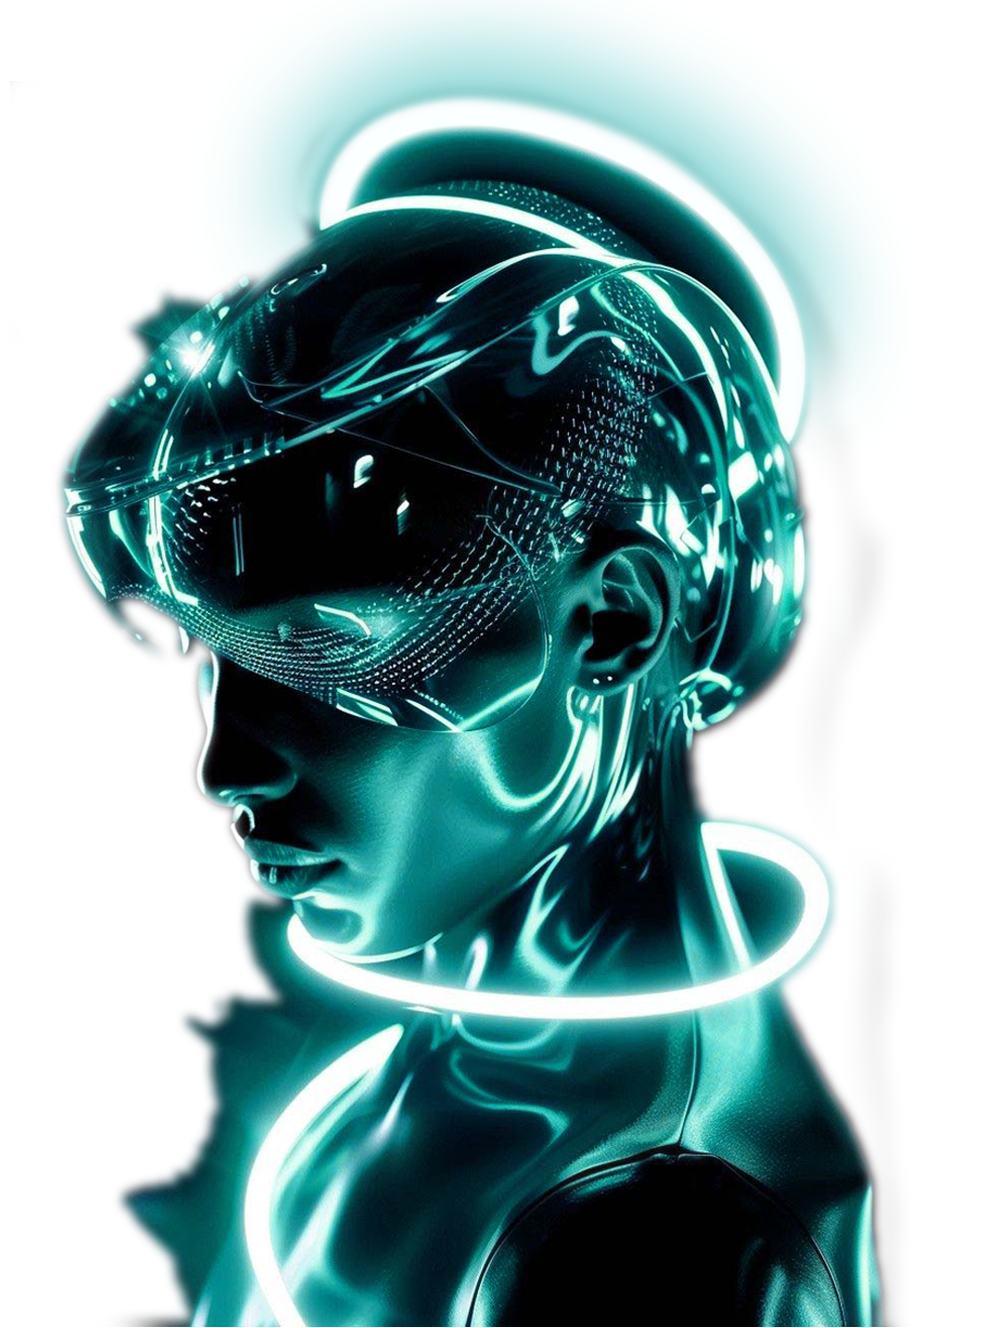
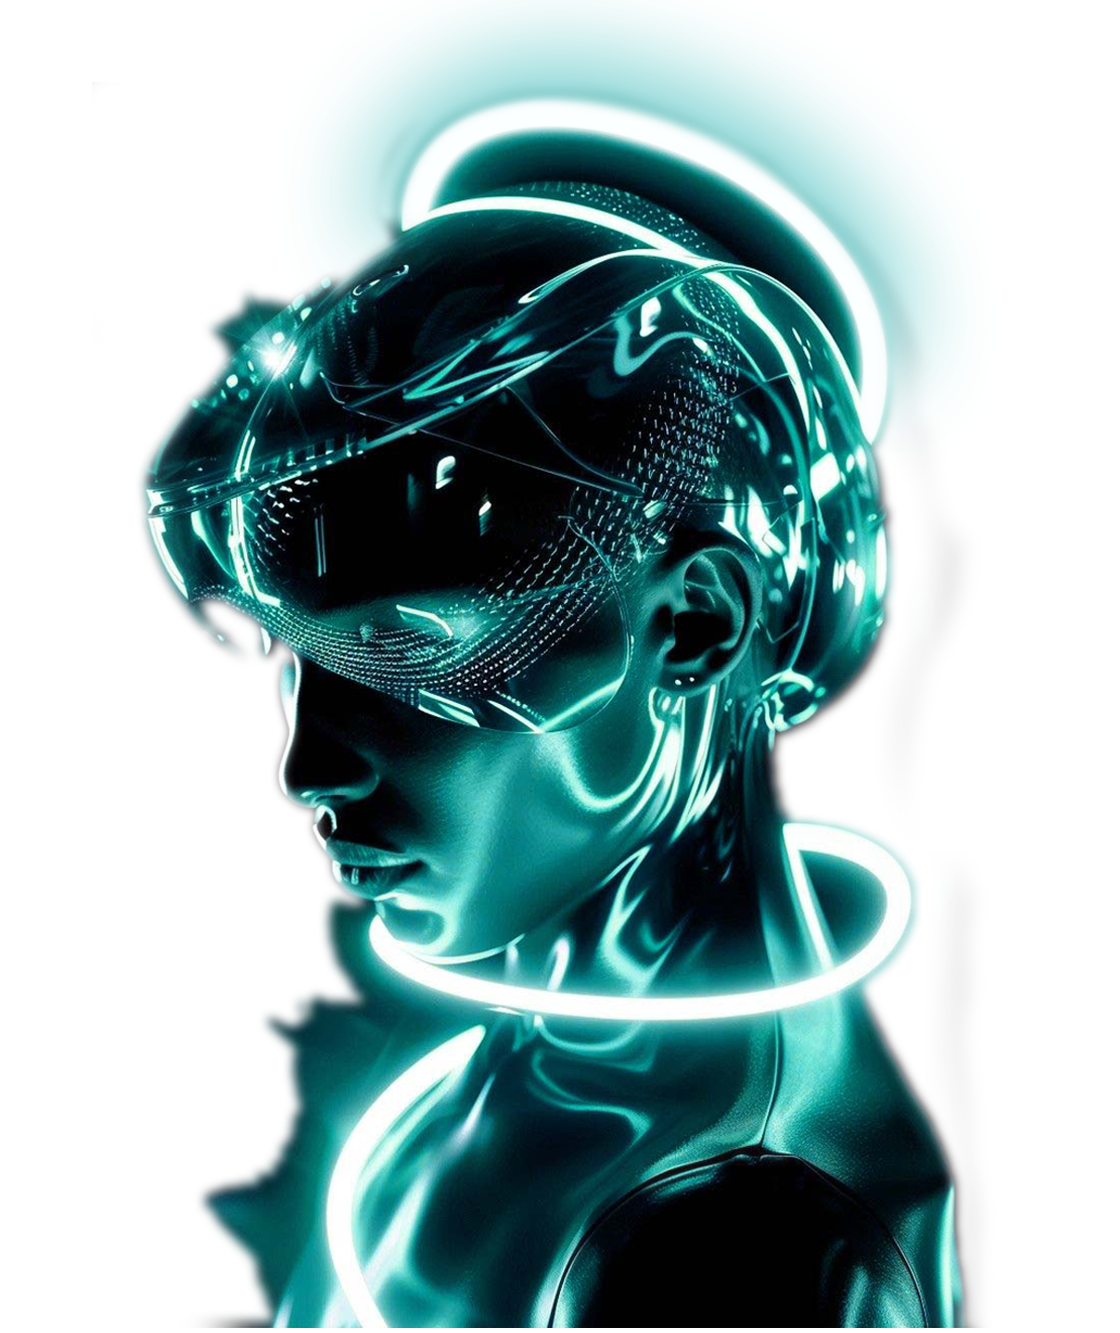
Enhance responsiveness of HeroSec component; adjust height and positioning for various screen sizes

diff --git a/client/src/components/home/HeroSec/HeroSec.tsx b/client/src/components/home/HeroSec/HeroSec.tsx
@@ -5,9 +5,9 @@ import Glow from '@/components/ui/Glow';
 const HeroSec = () => {
   return (
     <section className="sec-container overflow-x-hidden">
-      <div className="h-[94vh] lg:h-[90vh]">
+      <div className="h-[94vh] md:h-[84vh] lg:h-[90vh]">
         {/* background */}
-        <div className="absolute top-0 left-0 -z-50 h-screen w-full overflow-hidden opacity-75">
+        <div className="absolute top-0 left-0 -z-50 h-screen w-full overflow-hidden opacity-75 md:h-[90vh] lg:h-screen">
           <img
             src={`${assetsUrl.imagesUrl}dottedBG.png`}
             alt="background image"
@@ -16,44 +16,47 @@ const HeroSec = () => {
         </div>
 
         {/* decoration */}
-        <div className="absolute top-0 left-0 -z-40 h-full w-full overflow-x-hidden">
+        <div className="absolute top-0 left-0 -z-40 h-full w-full overflow-x-hidden md:h-[90vh] lg:h-screen">
           <Glow className="top-[5%] -left-[15%] z-[-55] opacity-85" />
           <img
-            className="absolute top-[25%] -left-[8%] h-16 rotate-z-[-50deg]"
+            className="absolute top-[25%] -left-[8%] h-16 rotate-z-[-50deg] md:top-[30%] md:-left-[5%] md:h-20 lg:top-[35%] lg:-left-[2%]"
             src={`${assetsUrl.imagesUrl}triangle-shape.png`}
           />
           <Glow className="-right-[15%] bottom-[5%] z-[-55] opacity-85" />
           <img
-            className="absolute -right-[5%] bottom-[25%] h-16 rotate-z-[120deg]"
+            className="absolute -right-[5%] bottom-[25%] h-16 rotate-z-[120deg] md:-right-[5%] md:bottom-[30%] md:h-20 lg:-right-[2%] lg:bottom-[35%]"
             src={`${assetsUrl.imagesUrl}triangle-shape.png`}
           />
         </div>
 
-        <div className="flex h-full flex-col justify-between">
+        <div className="flex h-full flex-col justify-between overflow-hidden">
           {/* text */}
-          <div className="mt-4 h-fit px-0 md:relative md:-z-40 md:px-8">
+          <div className="mt-4 h-fit px-0 md:mt-6 lg:relative lg:-z-40 lg:px-8">
             <img src={`${assetsUrl.imagesUrl}HomeText.png`} alt="" />
-            <div className="absolute bottom-0 left-0 z-40 w-full bg-gradient-to-t from-black from-10% to-transparent to-[110%] py-4 text-center md:-bottom-6 md:left-8 md:w-1/3 md:bg-none">
-              <p className="font-Sora text-[10px]" lang="de">
-                From brand identity to high-impact ads, Sologate{' '}
-                <br className="hidden md:block" />
-                Transforms your ideas into campaigns that don’t{' '}
-                <br className="hidden md:block" /> just Look good - they drive
+            <div className="absolute bottom-0 left-0 z-40 flex h-1/2 w-full items-end bg-gradient-to-t from-black from-20% to-transparent to-[100%] text-center md:bottom-[calc(10vh-2.5px)] md:h-1/3 lg:-bottom-4 lg:left-9 lg:h-fit lg:w-[30%] 2xl:w-[40%] lg:bg-none lg:text-left xl:-bottom-2 xl:left-12 2xl:-bottom-1 2xl:left-16">
+              <p
+                className="font-Sora px-8 py-4 text-[10px] md:px-[20%] md:py-6 lg:px-0 lg:py-0 2xl:text-lg"
+                lang="de"
+              >
+                From brand identity to high-impact ads, Sologate
+                <br className="hidden lg:block" />
+                Transforms your ideas into campaigns that don’t
+                <br className="lg :block hidden" /> just Look good - they drive
                 results.
               </p>
             </div>
           </div>
           {/* img */}
-          <div className="top-0 z-10 h-full overflow-hidden md:absolute md:h-screen">
+          <div className="top-0 z-10 h-full scale-[1.2] md:scale-[1] lg:absolute lg:left-1/2 lg:h-screen lg:-translate-x-1/2 lg:scale-[0.9] lg:overflow-hidden">
             <img
-              className="relative -z-40 h-full md:top-4"
+              className="relative -z-40 h-full w-fit md:-top-[12%] lg:top-4"
               src={`${assetsUrl.imagesUrl}heroImage.png`}
             />
           </div>
         </div>
       </div>
       {/* hook */}
-      <div className="bottom-0 left-0 z-10 my-4 grid w-full grid-cols-2 gap-3 from-black from-20% to-transparent to-30% md:absolute md:flex md:gap-7 md:bg-gradient-to-t md:px-16 md:pb-8">
+      <div className="bottom-0 left-0 z-10 my-4 grid w-full grid-cols-2 gap-3 from-black from-20% to-transparent to-[102%] md:my-6 md:flex lg:absolute lg:my-0 lg:gap-7 lg:bg-gradient-to-t lg:px-8 lg:pt-[10%] lg:pb-10">
         <HeroCard
           heading="Branding:"
           subtitle={['Your visual story', 'made unforgettable.']}
